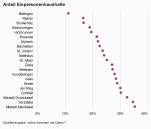
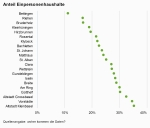
Change charts

diff --git a/charts/I.09.1.0009.js b/charts/I.09.1.0009.js
@@ -12,8 +12,22 @@ chartOptions['I.09.1.0009'] = {
 		"enabled": false
 	},
 	"series": [{
-		"color": "#923F8D"
-	}]
+		"color": "#68AB2B"
+	}],
+	"yAxis": {
+		"min": 1800,
+		"labels": {
+            "formatter": function(){
+                return Highcharts.numberFormat((this.value),0, ".", "");                
+            }
+        }		
+    },
+	"tooltip": {
+        "pointFormatter": function(){
+            //rank is calculated from index, thus data needs to be sorted by rank ascending.
+            return '<span style="color:{series.color}">' + this.series.data[this.x].name + '</span>: <b>' + Highcharts.numberFormat(this.y,0,",", "") + '</b><br/>Rang <b>' + parseInt(this.x + 1) + '</b>'                
+        }
+    }
 };
 
 //Colors of StatA Bereiche: violett3 #923F8D, gruen3 #68AB2B, blau3 #689199

diff --git a/charts/I.18.2.0003.js b/charts/I.18.2.0003.js
@@ -12,8 +12,20 @@ chartOptions['I.18.2.0003'] = {
 		"enabled": false
 	},
 	"series": [{
-		"color": "#923F8D"
-	}]
-};
+		"color": "#689199"
+	}],
+	"yAxis": {
+		"labels": {
+            "formatter": function(){
+                return Highcharts.numberFormat((this.value), 0, ".", " ");                
+            }
+        }		
+    },
+	"tooltip": {
+        "pointFormatter": function(){
+            //rank is calculated from index, thus data needs to be sorted by rank ascending.
+            return '<span style="color:{series.color}">' + this.series.data[this.x].name + '</span>: <b>Fr. ' + Highcharts.numberFormat(this.y, 0, "," ," ") + '</b><br/>Rang <b>' + parseInt(this.x + 1) + '</b>'                
+        }
+    }};
 
 //Colors of StatA Bereiche: violett3 #923F8D, gruen3 #68AB2B, blau3 #689199

diff --git a/charts/I.03.2.0002.js b/charts/I.03.2.0002.js
@@ -12,8 +12,22 @@ chartOptions['I.03.2.0002'] = {
 		"enabled": false
 	},
 	"series": [{
-		"color": "#923F8D"
-	}]
+		"color": "#689199"
+	}],
+	"yAxis": {
+		"text": "",
+        "labels": {
+            "formatter": function(){
+                return Highcharts.numberFormat((this.value),0);                
+            }
+        }
+    },
+	"tooltip": {
+        "pointFormatter": function(){
+            //rank is calculated from index, thus data needs to be sorted by rank ascending.
+            return '<span style="color:{series.color}">' + this.series.data[this.x].name + '</span>: <b>' + Highcharts.numberFormat(this.y,3,",", "") + '</b><br/>Rang <b>' + parseInt(this.x + 1) + '</b>'                
+        }
+    }
 };
 
 //Colors of StatA Bereiche: violett3 #923F8D, gruen3 #68AB2B, blau3 #689199

diff --git a/charts/I.18.2.0002.js b/charts/I.18.2.0002.js
@@ -12,8 +12,21 @@ chartOptions['I.18.2.0002'] = {
 		"enabled": false
 	},
 	"series": [{
-		"color": "#923F8D"
-	}]
+		"color": "#689199"
+	}],
+	"yAxis": {
+		"labels": {
+            "formatter": function(){
+                return Highcharts.numberFormat((this.value), 0, ".", " ");                
+            }
+        }		
+    },
+	"tooltip": {
+        "pointFormatter": function(){
+            //rank is calculated from index, thus data needs to be sorted by rank ascending.
+            return '<span style="color:{series.color}">' + this.series.data[this.x].name + '</span>: <b>Fr. ' + Highcharts.numberFormat(this.y, 0, "," ," ") + '</b><br/>Rang <b>' + parseInt(this.x + 1) + '</b>'                
+        }
+    }
 };
 
 //Colors of StatA Bereiche: violett3 #923F8D, gruen3 #68AB2B, blau3 #689199

diff --git a/charts/I.09.1.0011.js b/charts/I.09.1.0011.js
@@ -12,8 +12,21 @@ chartOptions['I.09.1.0011'] = {
 		"enabled": false
 	},
 	"series": [{
-		"color": "#923F8D"
-	}]
+		"color": "#68AB2B"
+	}],
+	"yAxis": {
+		"labels": {
+            "formatter": function(){
+                return Highcharts.numberFormat((this.value), 0, ".", "");                
+            }
+        }		
+    },
+	"tooltip": {
+        "pointFormatter": function(){
+            //rank is calculated from index, thus data needs to be sorted by rank ascending.
+            return '<span style="color:{series.color}">' + this.series.data[this.x].name + '</span>: <b>' + Highcharts.numberFormat(this.y, 1, "," ,"") + ' m²</b><br/>Rang <b>' + parseInt(this.x + 1) + '</b>'                
+        }
+    }
 };
 
 //Colors of StatA Bereiche: violett3 #923F8D, gruen3 #68AB2B, blau3 #689199

diff --git a/charts/I.09.1.0012.js b/charts/I.09.1.0012.js
@@ -12,8 +12,21 @@ chartOptions['I.09.1.0012'] = {
 		"enabled": false
 	},
 	"series": [{
-		"color": "#923F8D"
-	}]
+		"color": "#68AB2B"
+	}],
+	"yAxis": {
+		"labels": {
+            "formatter": function(){
+                return Highcharts.numberFormat((this.value), 0, ".", "");                
+            }
+        }		
+    },
+	"tooltip": {
+        "pointFormatter": function(){
+            //rank is calculated from index, thus data needs to be sorted by rank ascending.
+            return '<span style="color:{series.color}">' + this.series.data[this.x].name + '</span>: <b>' + Highcharts.numberFormat(this.y, 1, "," ,"") + ' m²</b><br/>Rang <b>' + parseInt(this.x + 1) + '</b>'                
+        }
+    }
 };
 
 //Colors of StatA Bereiche: violett3 #923F8D, gruen3 #68AB2B, blau3 #689199

diff --git a/chart-dev.html b/chart-dev.html
@@ -35,7 +35,7 @@
   <body style="margin: 0;">    
     <script type="text/javascript">   
         //------------------------//
-        var kuerzel = 'sozialhilfequote';
+        var kuerzel = 'I.09.1.0009';
         var template = 'dotplot';
         var options = 'options001';        
         //------------------------//
@@ -52,7 +52,8 @@
         var chartUrl = 'charts/' + kuerzel + '.js'; 
         var csvUrl = 'data/' + kuerzel + '.csv';
         
-        renderChart(optionsUrl, templateUrl, chartUrl, csvUrl, kuerzel);    
+        renderChartByKuerzel(kuerzel);
+        //renderChart(optionsUrl, templateUrl, chartUrl, csvUrl, kuerzel);    
     </script>
   </body>
 </html>

diff --git a/charts/I.03.1.0002.js b/charts/I.03.1.0002.js
@@ -5,13 +5,6 @@ chartOptions['I.03.1.0002'] = {
 	"title": {
 		"text": "Erwerbstätigenquote"
 	},
-	"yAxis": {
-		"labels": {
-			"formatter": function(){
-				return Highcharts.numberFormat((this.value),2);                
-			}
-		}
-    },
 	"credits": {
 		"text": "Quellenangabe: woher kommen die Daten?"
 	},
@@ -19,7 +12,7 @@ chartOptions['I.03.1.0002'] = {
 		"enabled": false
 	},
 	"series": [{
-		"color": "#923F8D"
+		"color": "#689199"
 	}]
 };
 

diff --git a/charts/I.01.2.0003.js b/charts/I.01.2.0003.js
@@ -12,7 +12,7 @@ chartOptions['I.01.2.0003'] = {
 		"enabled": false
 	},
 	"series": [{
-		"color": "#923F8D"
+		"color": "#68AB2B"
 	}]
 };
 

diff --git a/charts/I.02.1.0016.js b/charts/I.02.1.0016.js
@@ -12,7 +12,7 @@ chartOptions['I.02.1.0016'] = {
 		"enabled": false
 	},
 	"series": [{
-		"color": "#923F8D"
+		"color": "#68AB2B"
 	}]
 };
 

diff --git a/charts/I.03.4.0003.js b/charts/I.03.4.0003.js
@@ -12,7 +12,7 @@ chartOptions['I.03.4.0003'] = {
 		"enabled": false
 	},
 	"series": [{
-		"color": "#923F8D"
+		"color": "#689199"
 	}]
 };
 

diff --git a/charts/I.09.1.0010.js b/charts/I.09.1.0010.js
@@ -12,7 +12,7 @@ chartOptions['I.09.1.0010'] = {
 		"enabled": false
 	},
 	"series": [{
-		"color": "#923F8D"
+		"color": "#68AB2B"
 	}]
 };
 
